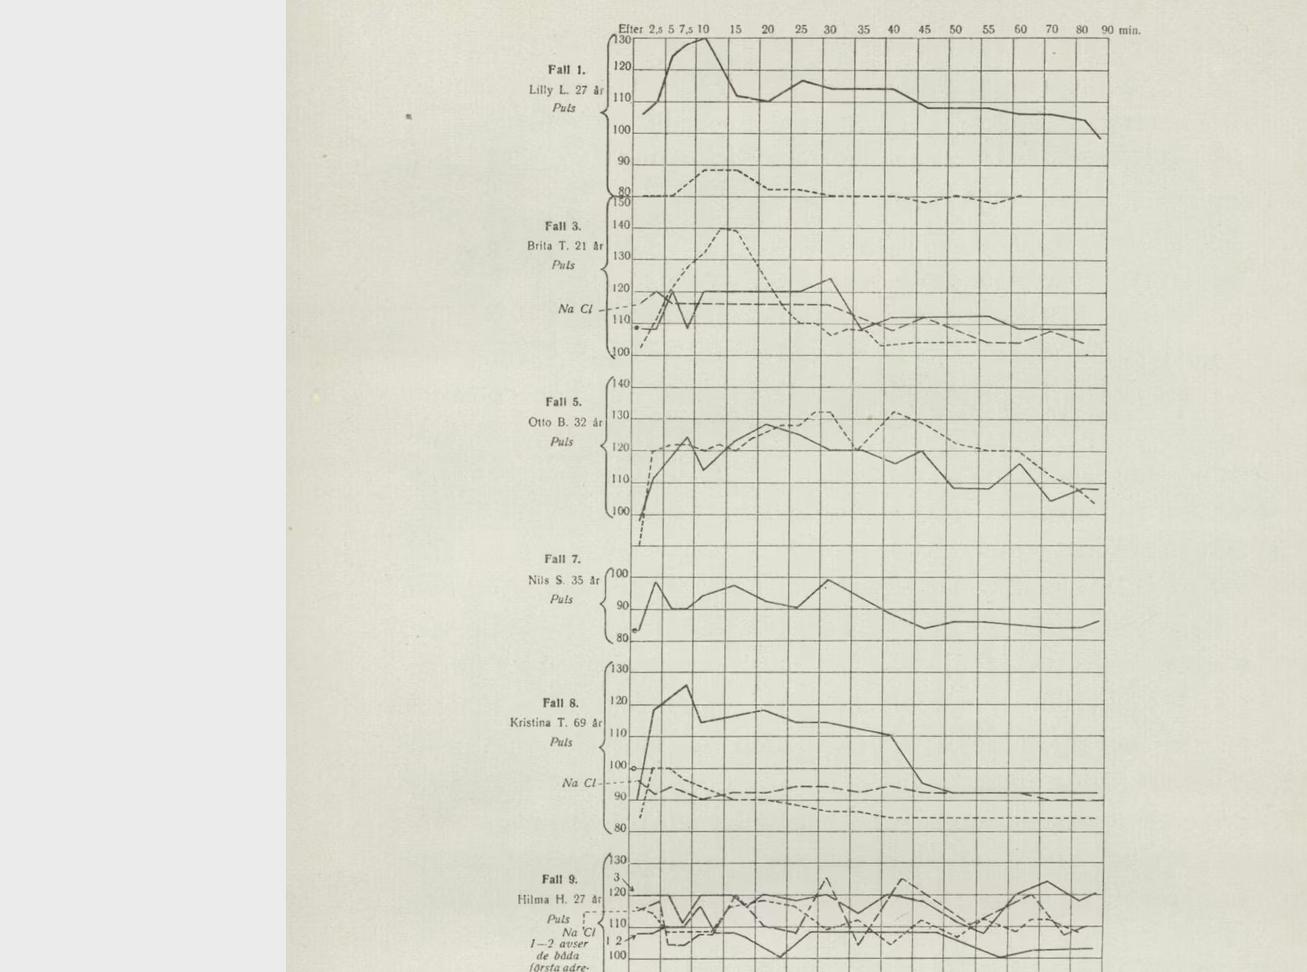
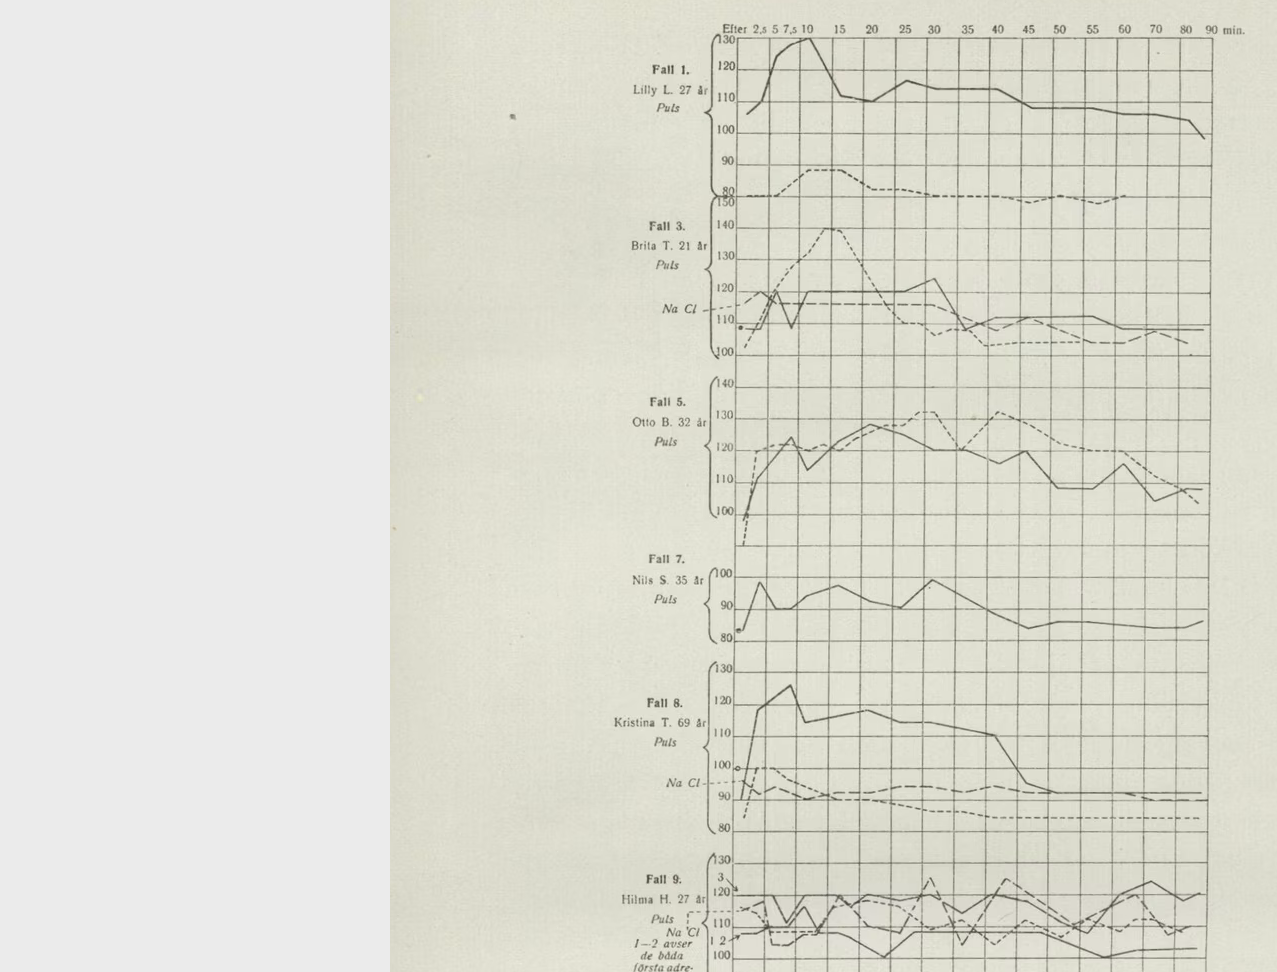
added even more images

diff --git a/index.html b/index.html
@@ -14,7 +14,7 @@
 <body>
   <div id="main">
     <canvas id="dither-background"></canvas>
-    <div id="menu" class="bg-blend">
+    <div id="menu" class="">
       <div class="menu-item-wrapper ibm-plex-sans-extralight menu-item">
         <a href='http://cdhu.abm.uu.se/search'>
           <span class="menu-text numbered-header">Sök i databasen<span class="arrow-icon">↗</span></span>
@@ -34,7 +34,7 @@
         <span class="binary-filler fg-grey"></span>
       </div>
     </div>
-    <div id="about-text" class="bg-blend indented-prose hyphenate ibm-plex-sans-regular">
+    <div id="about-text" class="indented-prose hyphenate ibm-plex-sans-regular">
       <p>Sedan 1700-talet har medicinska tidskrifter kartlagt människans villkor – födelse, död, smärta och sjukdom. De
         har noggrant dokumenterat en pågående dialog mellan vårdpersonal, patienter och allmänhet. Genom skiftande
         visuella och textuella uttryck materialiserar dessa publikationer historiska nyckelhändelser och vändpunkter:
